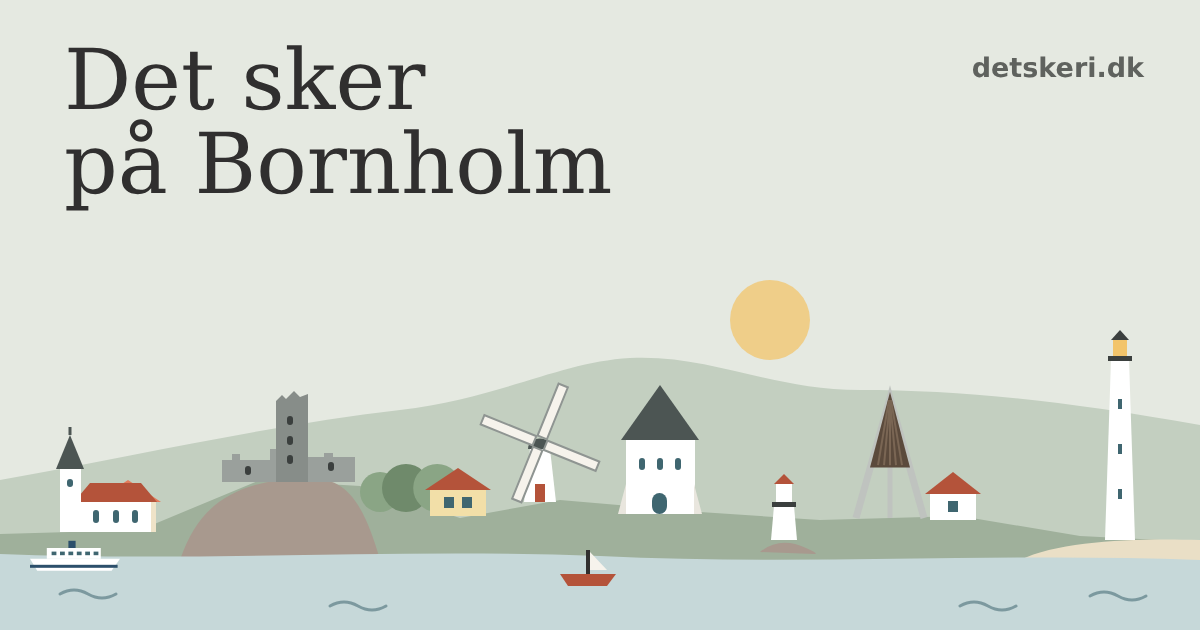
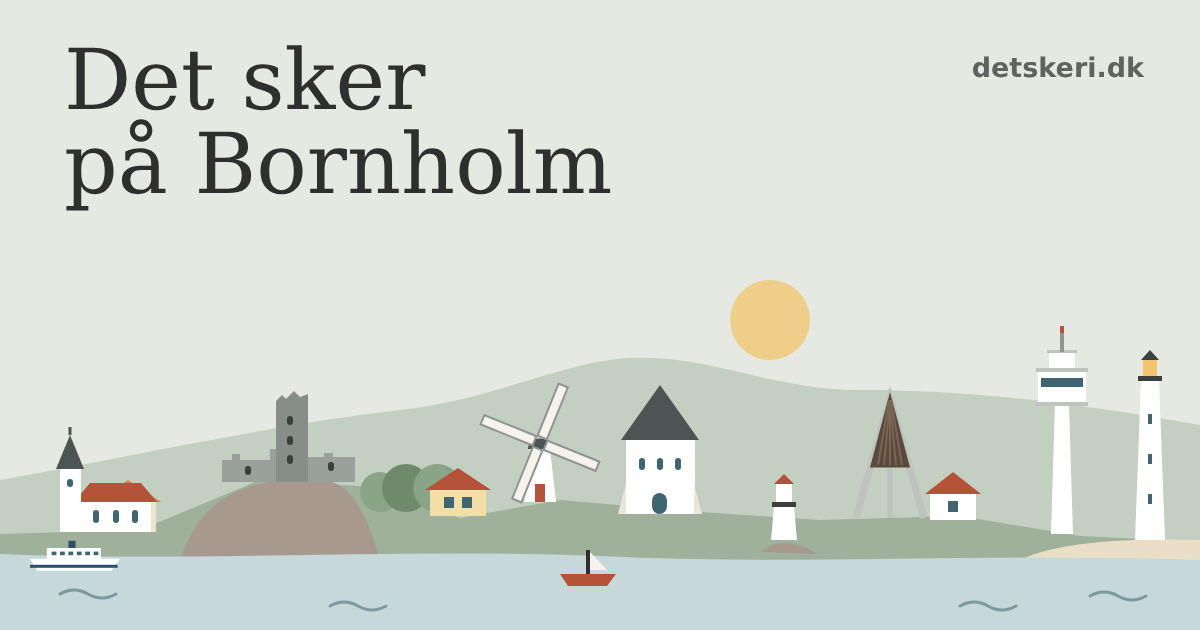
Bornholmertårnet på øtegningen (side, nyhedsbrev og delebillede)
Claude-Session: https://claude.ai/code/session_01VxcS93fhra8UrNjxG5o7VL

Changed region(s): [[0.8633, 0.5127, 0.9867, 0.8746]]

diff --git a/tools/tegning.py b/tools/tegning.py
@@ -178,6 +178,18 @@ def hotel(x, gy, w=150):
 def brickchimney(x, gy, h=110):
     return f'<path d="M{x - 8} {gy} L{x - 5} {gy - h} L{x + 5} {gy - h} L{x + 8} {gy}Z" fill="{C["brick"]}"/><rect x="{x - 6}" y="{gy - h}" width="12" height="6" fill="{C["dark"]}"/>'
 
+def spytower(x, gy, h=200):
+    """Bornholmertårnet ved Dueodde: højt hvidt betontårn (koldkrigens lyttepost) med bred kabine og antennemast."""
+    o = f'<path d="M{x - 11} {gy} L{x - 7} {gy - h * .72:.0f} L{x + 7} {gy - h * .72:.0f} L{x + 11} {gy}Z" fill="{C["white"]}"/>'
+    ky = gy - h * .72
+    o += f'<rect x="{x - 24}" y="{ky - 34:.0f}" width="48" height="34" fill="{C["white"]}"/>'                       # kabinen
+    o += f'<rect x="{x - 26}" y="{ky - 36:.0f}" width="52" height="4" fill="{C["stone"]}"/><rect x="{x - 26}" y="{ky - 2:.0f}" width="52" height="4" fill="{C["stone"]}"/>'
+    o += f'<rect x="{x - 21}" y="{ky - 26:.0f}" width="42" height="9" fill="{C["deep"]}"/>'                          # vinduesbånd
+    o += f'<rect x="{x - 13}" y="{ky - 52:.0f}" width="26" height="16" fill="{C["white"]}"/><rect x="{x - 15}" y="{ky - 54:.0f}" width="30" height="3" fill="{C["stone"]}"/>'
+    o += f'<rect x="{x - 2}" y="{ky - 78:.0f}" width="4" height="26" fill="{C["grey"]}"/>'                          # mast
+    o += f'<rect x="{x - 2}" y="{ky - 78:.0f}" width="4" height="7" fill="{C["red"]}"/>'
+    return o
+
 def fishboat(x, y, color="deep"):
     return boat(x, y, color, sail=False)
 
@@ -341,7 +353,8 @@ def bornholm():
     b += lighthouse_sq(784, SEA - 14, 34, "white")                          # fyret på Christiansø
     b += watertower(890, 268, 120)                                           # Svaneke vandtårn
     b += houses(930, 1010, 270, 62)
-    b += lighthouse_tall(1120, 290, 180)                                     # Dueodde Fyr
+    b += spytower(1062, 284, 180)                                            # Bornholmertårnet (Dueodde)
+    b += lighthouse_tall(1150, 290, 160)                                     # Dueodde Fyr
     f += boat(560, SEA + 10, "red")
     return frame(b, f, sunx=770) + WAVES
 
